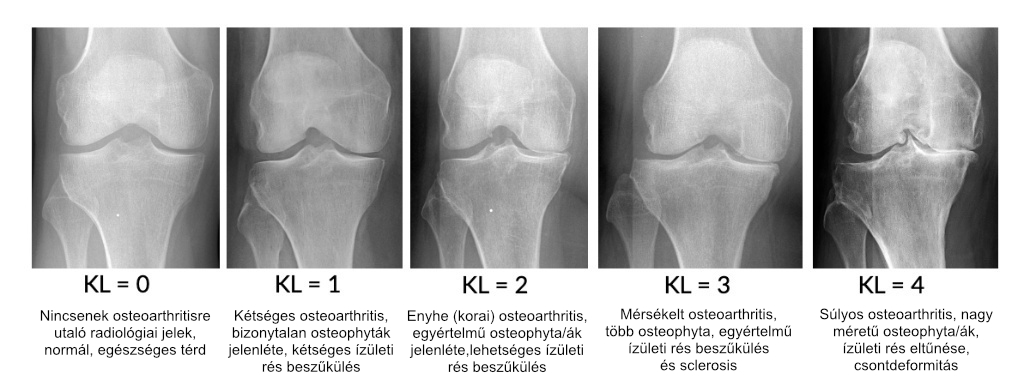
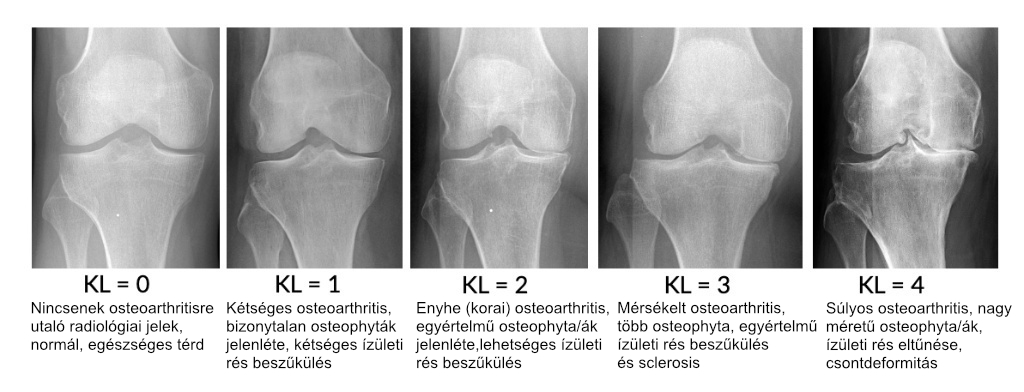
minor fixes

Changed region(s): [[0.0312, 0.7653, 1.0, 0.949]]

diff --git a/src/radiologist/components/RadiologistAnnotation.tsx b/src/radiologist/components/RadiologistAnnotation.tsx
@@ -218,7 +218,7 @@ export const RadiologistAnnotation: React.FC<RadiologistAnnotationProps> = ({ on
                         {/* Step 1: Readability */}
                         <div>
                             <h3 className="font-semibold mb-3 text-gray-700 text-lg flex items-center">
-                                1. Olvasható a kép?
+                                1. Képminőség
                                 <HelpTooltip text="Kérjük, ítélje meg, hogy a felvétel minősége (expozíció, beállítás, műtermékek hiánya) lehetővé teszi-e a megbízható diagnosztizálást." align="center" position="bottom" />
                             </h3>
                             <div className="flex gap-4">
@@ -229,7 +229,7 @@ export const RadiologistAnnotation: React.FC<RadiologistAnnotationProps> = ({ on
                                             ? 'bg-teal-600 border-teal-600 text-white transform scale-[1.02]'
                                             : 'bg-white border-gray-200 text-gray-700 hover:border-teal-300 hover:bg-teal-50'}`}
                                 >
-                                    Igen
+                                    Megfelelő
                                 </button>
                                 <button
                                     onClick={() => setIsReadable(false)}
@@ -238,7 +238,7 @@ export const RadiologistAnnotation: React.FC<RadiologistAnnotationProps> = ({ on
                                             ? 'bg-teal-600 border-teal-600 text-white transform scale-[1.02]'
                                             : 'bg-white border-gray-200 text-gray-700 hover:border-teal-300 hover:bg-teal-50'}`}
                                 >
-                                    Nem
+                                    Nem megfelelő
                                 </button>
                             </div>
                         </div>

diff --git a/src/radiologist/pages/RadiologistLanding.tsx b/src/radiologist/pages/RadiologistLanding.tsx
@@ -1,5 +1,6 @@
 import React, { useEffect } from 'react';
 import { useNavigate } from 'react-router-dom';
+import { AlertTriangle } from 'lucide-react';
 import { useRadiologistAuth } from '../contexts/RadiologistAuthContext';
 import { Card } from '../../components/ui/Card';
 import { Button } from '../../components/ui/Button';
@@ -47,6 +48,13 @@ export const RadiologistLanding: React.FC = () => {
                     <div className="bg-teal-50 border border-teal-100 rounded-xl p-3 text-sm text-teal-800 mb-6">
                         <strong>Kinek szól?</strong> Radiológusok, ortopéd szakorvosok, reumatológusok és egyéb
                         egészségügyi szakemberek számára.
+                    </div>
+
+                    <div className="bg-red-50 border border-red-200 rounded-xl p-4 mb-6 flex items-start gap-3 text-left animate-pulse">
+                        <AlertTriangle className="text-red-600 shrink-0 mt-0.5" size={20} />
+                        <div className="text-sm text-red-800">
+                            <strong>Fontos:</strong> Az alkalmazás kizárólag asztali számítógépen vagy laptopon használható! Mobil eszközökön a felület nem jelenik meg megfelelően.
+                        </div>
                     </div>
 
                     <Button
